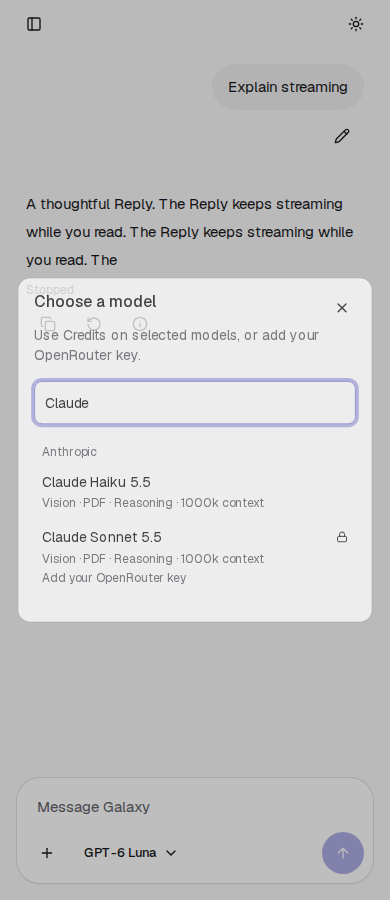
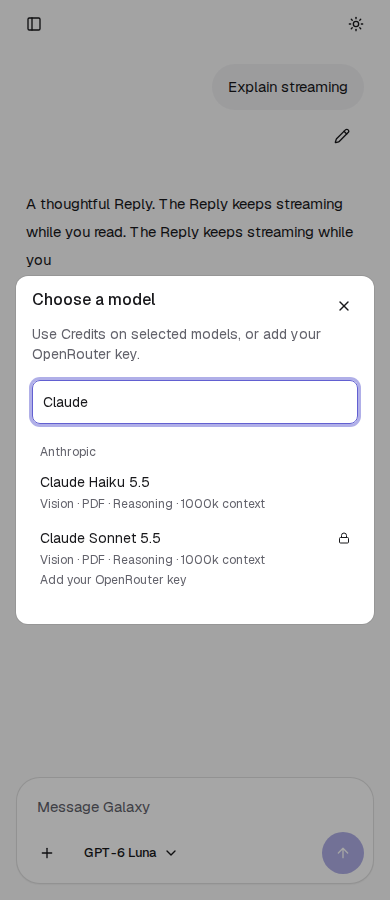
test(m4): expand browser and keyboard verification evidence

diff --git a/tests/manual/chat-browser.ts b/tests/manual/chat-browser.ts
@@ -54,6 +54,16 @@ const server = Bun.serve({
     );
   },
 });
+async function tabTo(
+  page: import("@playwright/test").Page,
+  target: import("@playwright/test").Locator,
+) {
+  for (let i = 0; i < 80; i++) {
+    await page.keyboard.press("Tab");
+    if (await target.evaluate((el) => el === document.activeElement)) return;
+  }
+  throw new Error("Keyboard focus did not reach target");
+}
 const browser = await chromium.launch({ headless: true });
 try {
   for (const theme of ["light", "dark"] as const)
@@ -70,11 +80,21 @@ try {
         hasTouch: width === 390,
       });
       page.on("pageerror", (error) => console.log("pageerror", error.message));
-      await page.route("**/api/**", (route) =>
-        route.continue({
+      let injectedError: string | undefined;
+      await page.route("**/api/**", (route) => {
+        if (
+          injectedError &&
+          route.request().method() === "POST" &&
+          route.request().url().endsWith("/messages")
+        )
+          return route.fulfill({
+            status: injectedError === "payload_too_large" ? 413 : 402,
+            json: { error: injectedError },
+          });
+        return route.continue({
           url: route.request().url().replace(":3000", ":3100"),
-        }),
-      );
+        });
+      });
       await page.addInitScript(
         (theme) => localStorage.setItem("theme", theme),
         theme,
@@ -83,11 +103,19 @@ try {
         waitUntil: "domcontentloaded",
         timeout: 120000,
       });
-      await page
-        .getByRole("textbox", { name: "Message", exact: true })
-        .fill("Explain streaming");
+      const composer = page.getByRole("textbox", {
+        name: "Message",
+        exact: true,
+      });
+      await expect(composer).toBeVisible();
+      await expect(page.locator("output[aria-live=polite]")).toHaveText("");
+      await page.screenshot({
+        path: `docs/evidence/m4/${theme}-${width}-empty.png`,
+      });
+      await tabTo(page, composer);
+      await composer.fill("Explain streaming");
       await page.addStyleTag({ content: "nextjs-portal {display:none}" });
-      await page.getByRole("button", { name: "Send message" }).click();
+      await page.keyboard.press("Enter");
       await expect(
         page.getByRole("button", { name: "Stop Reply" }),
       ).toBeVisible();
@@ -112,21 +140,37 @@ try {
       await page.screenshot({
         path: `docs/evidence/m4/${theme}-${width}-stopped.png`,
       });
+      await expect(page.locator("output[aria-live=polite]")).toContainText(
+        "A thoughtful Reply.",
+      );
       await page.getByRole("button", { name: "Choose model" }).click();
       await page.getByRole("textbox", { name: "Search models" }).fill("Claude");
       await expect(
         page.getByText("Add your OpenRouter key", { exact: true }).first(),
       ).toBeVisible();
+      await page.waitForTimeout(400); // Capture the settled dialog, including on mobile.
       await page.screenshot({
         path: `docs/evidence/m4/${theme}-${width}-models.png`,
       });
       await page.keyboard.press("Escape");
+      await expect(
+        page.getByRole("textbox", { name: "Search models" }),
+      ).toHaveCount(0);
       h.state.script = { words: ["A new Version."], delayMs: 100 };
       await page.getByRole("button", { name: "Regenerate Reply" }).click();
       await expect(page.getByText("2/2", { exact: true })).toBeVisible({
         timeout: 20000,
       });
-      await page.getByRole("button", { name: "Edit Message" }).click();
+      await tabTo(page, page.getByRole("button", { name: "Edit Message" }));
+      await page.keyboard.press("Enter");
+      await expect(
+        page.getByRole("textbox", { name: "Edit Message", exact: true }),
+      ).toBeFocused();
+      await page.keyboard.press("Escape");
+      await expect(
+        page.getByRole("button", { name: "Edit Message" }),
+      ).toBeFocused();
+      await page.keyboard.press("Enter");
       await page
         .getByRole("textbox", { name: "Edit Message", exact: true })
         .fill("Edited Message");
@@ -141,7 +185,14 @@ try {
         page.getByRole("button", { name: "Send message" }),
       ).toBeVisible({ timeout: 20000 });
       await expect(page.getByText("2/2", { exact: true })).toBeVisible();
+      await expect(
+        page.getByRole("button", { name: "Edit Message" }),
+      ).toBeFocused();
       await page.addStyleTag({ content: "nextjs-portal {display:none}" });
+      await page
+        .getByRole("button", { name: "Previous Version" })
+        .first()
+        .hover();
       await page.screenshot({
         path: `docs/evidence/m4/${theme}-${width}-versions.png`,
       });
@@ -166,6 +217,101 @@ try {
       await expect(page.getByText("Interrupted", { exact: true })).toHaveCount(
         0,
       );
+      // Keyboard-only Reply actions, Version selection and picker dismissal.
+      await tabTo(page, page.getByRole("button", { name: "Copy Reply" }));
+      await tabTo(
+        page,
+        page.getByRole("button", { name: "Previous Version" }).first(),
+      );
+      await page.keyboard.press("Enter");
+      await expect(
+        page.getByText("Explain streaming", { exact: true }),
+      ).toBeVisible();
+      await tabTo(page, page.getByRole("button", { name: "Choose model" }));
+      await page.keyboard.press("Enter");
+      await expect(
+        page.getByRole("textbox", { name: "Search models" }),
+      ).toBeVisible();
+      await page.keyboard.press("Escape");
+      await expect(
+        page.getByRole("textbox", { name: "Search models" }),
+      ).toHaveCount(0);
+      await expect(
+        page.getByRole("button", { name: "Choose model" }),
+      ).toBeFocused();
+      // Errors must keep the draft and only payment/key errors offer the key action.
+      for (const code of [
+        "no_credits",
+        "needs_byok_key",
+        "payload_too_large",
+        "unknown_error",
+      ]) {
+        injectedError = code;
+        await composer.fill("Keep my draft");
+        await composer.press("Enter");
+        await expect(page.locator("main [role=alert]")).toBeVisible();
+        await expect(composer).toHaveValue("Keep my draft");
+        await expect(
+          page.getByRole("button", {
+            name: "Add your OpenRouter key",
+            exact: true,
+          }),
+        ).toHaveCount(
+          code === "no_credits" || code === "needs_byok_key" ? 1 : 0,
+        );
+        await page.screenshot({
+          path: `docs/evidence/m4/${theme}-${width}-${code}.png`,
+        });
+      }
+      injectedError = undefined;
+      const current = await (
+        await call(h, routes.getChatRoute, { user: "local", id: chat.id })
+      ).json();
+      await h.pg.query(
+        "UPDATE message SET status = 'failed', parts = '[]', payment = 'credits' WHERE id = $1",
+        [current.messages.at(-1).id],
+      );
+      await page.reload({ waitUntil: "domcontentloaded" });
+      await expect(page.getByText(/You weren’t charged/)).toBeVisible();
+      await page.screenshot({
+        path: `docs/evidence/m4/${theme}-${width}-failed.png`,
+      });
+      // New-Chat handoff keeps both recovery records until acceptance.
+      const fresh = await (
+        await call(h, routes.createChatRoute, { user: "local", body: {} })
+      ).json();
+      await page.evaluate((id) => {
+        localStorage.setItem("galaxy:draft:new", "First Message");
+        sessionStorage.setItem(`galaxy:send:${id}`, "First Message");
+      }, fresh.chat.id);
+      injectedError = "no_credits";
+      await page.goto(`http://localhost:3000/design/chat?id=${fresh.chat.id}`);
+      await expect(page.locator("main [role=alert]")).toBeVisible();
+      await expect(composer).toHaveValue("First Message");
+      expect(
+        await page.evaluate(
+          (id) => [
+            localStorage.getItem("galaxy:draft:new"),
+            sessionStorage.getItem(`galaxy:send:${id}`),
+          ],
+          fresh.chat.id,
+        ),
+      ).toEqual(["First Message", "First Message"]);
+      injectedError = undefined;
+      await composer.press("Enter");
+      await expect(composer).toHaveValue("");
+      expect(
+        await page.evaluate(
+          (id) => [
+            localStorage.getItem("galaxy:draft:new"),
+            sessionStorage.getItem(`galaxy:send:${id}`),
+          ],
+          fresh.chat.id,
+        ),
+      ).toEqual([null, null]);
+      await expect(
+        page.getByRole("button", { name: "Send message" }),
+      ).toBeVisible();
       await page.close();
       h.state.script = {
         words: (
@@ -176,7 +322,7 @@ try {
       };
     }
   console.log(
-    "PASS: streaming, refresh resume, Stop, regenerate and edit Versions, Interrupted Continue, locked picker; light/dark at 1280/390.",
+    "PASS: streaming, refresh resume, Stop, Versions, Interrupted Continue, settled picker, empty/Failed/error states, draft handoff and keyboard-only flow; light/dark at 1280/390.",
   );
 } finally {
   await browser.close();

diff --git a/docs/evidence/m4/README.md b/docs/evidence/m4/README.md
@@ -27,3 +27,23 @@ Next.js in production mode.
 Known API limitation: M3 does not persist reasoning duration. While observing
 reasoning live the UI shows “Thought for Ns”; a freshly loaded saved Reply
 shows “Thought process” rather than inventing a duration.
+
+Review follow-up verification (rebased on M3 `82948dd`): the runner also checks
+`no_credits`, `needs_byok_key`, 413 and generic errors, verifying the draft remains
+and that only payment/key errors show the key action. Each viewport/theme includes
+empty and Failed Reply screenshots. The Failed fixture has no text and was paid
+with Credits; component tests also cover BYOK wording. Version screenshots hover
+the controls, and picker screenshots wait 400ms for the open transition to settle.
+
+Keyboard-only checks Tab to the composer, send with Enter, open inline editing
+with Enter, Escape back to the Edit Message button, reach Reply actions and the
+Version switcher with Tab, change Version with Enter, and close the picker with
+Escape, restoring its trigger focus. The live region is empty on initial load
+and announces Reply text when a Generation ends.
+
+The runner additionally exercises a rejected first send after creating a Chat:
+`galaxy:draft:new` and `galaxy:send:<id>` remain, the composer restores the text,
+and a successful retry clears both records on server acceptance. Component/hook
+regressions cover Credit/key errors, 413, network failure, busy refusal, pending
+acceptance with newer typing, accepted headers before streaming ends, edit
+rejection, focus restoration and Failed Replies. No real provider is called.
